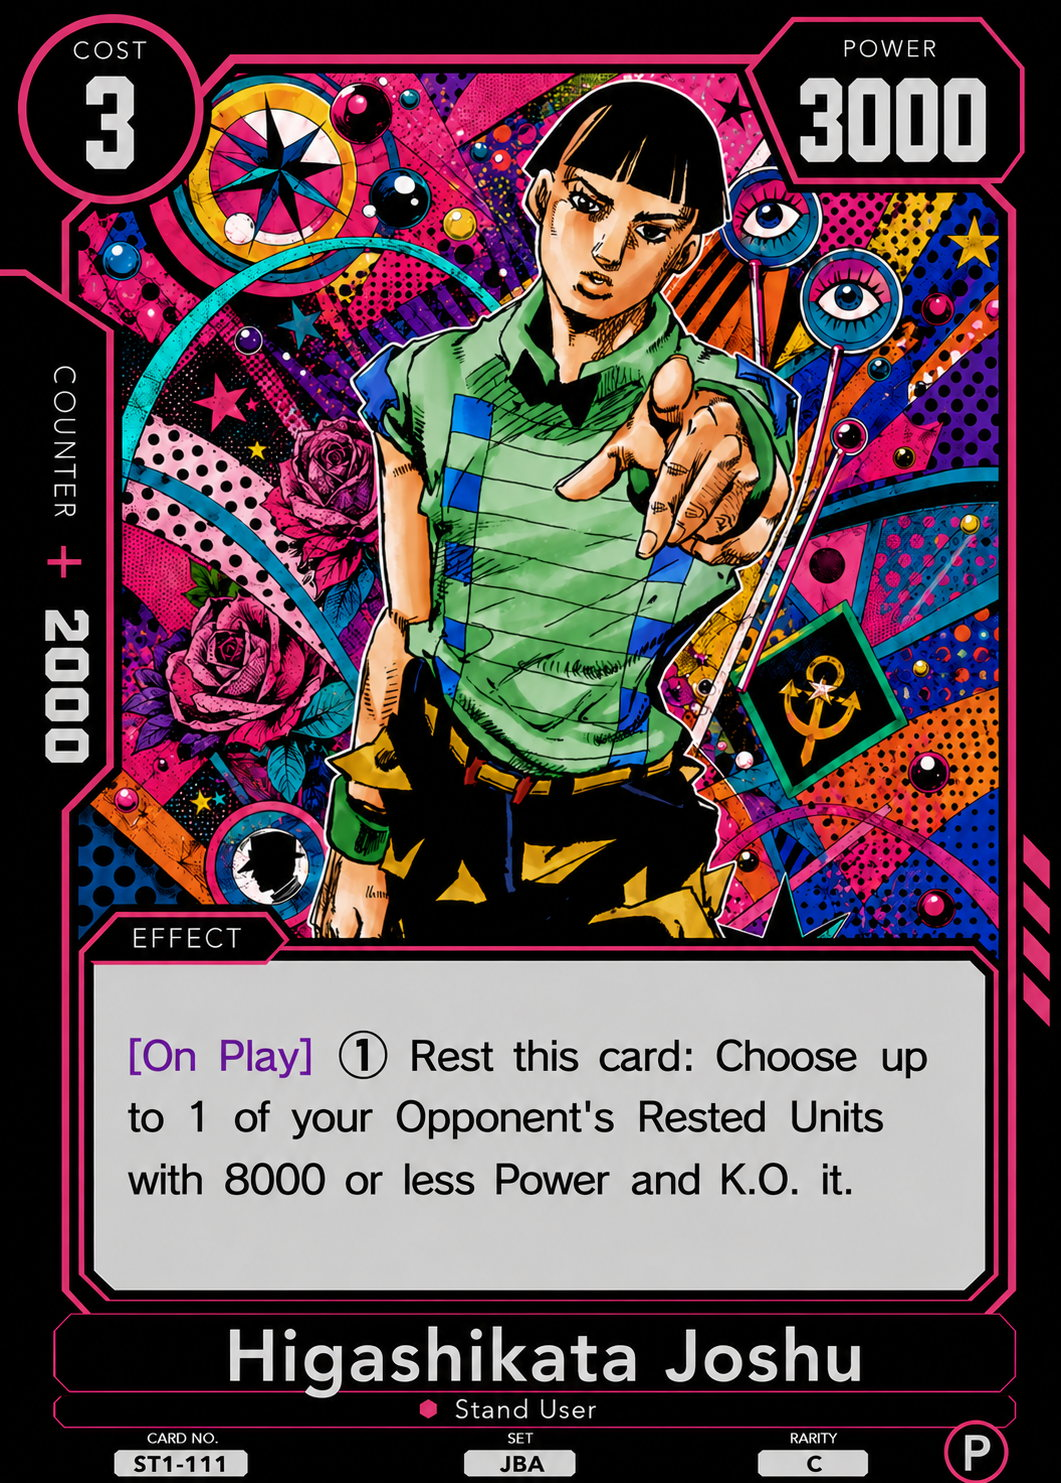
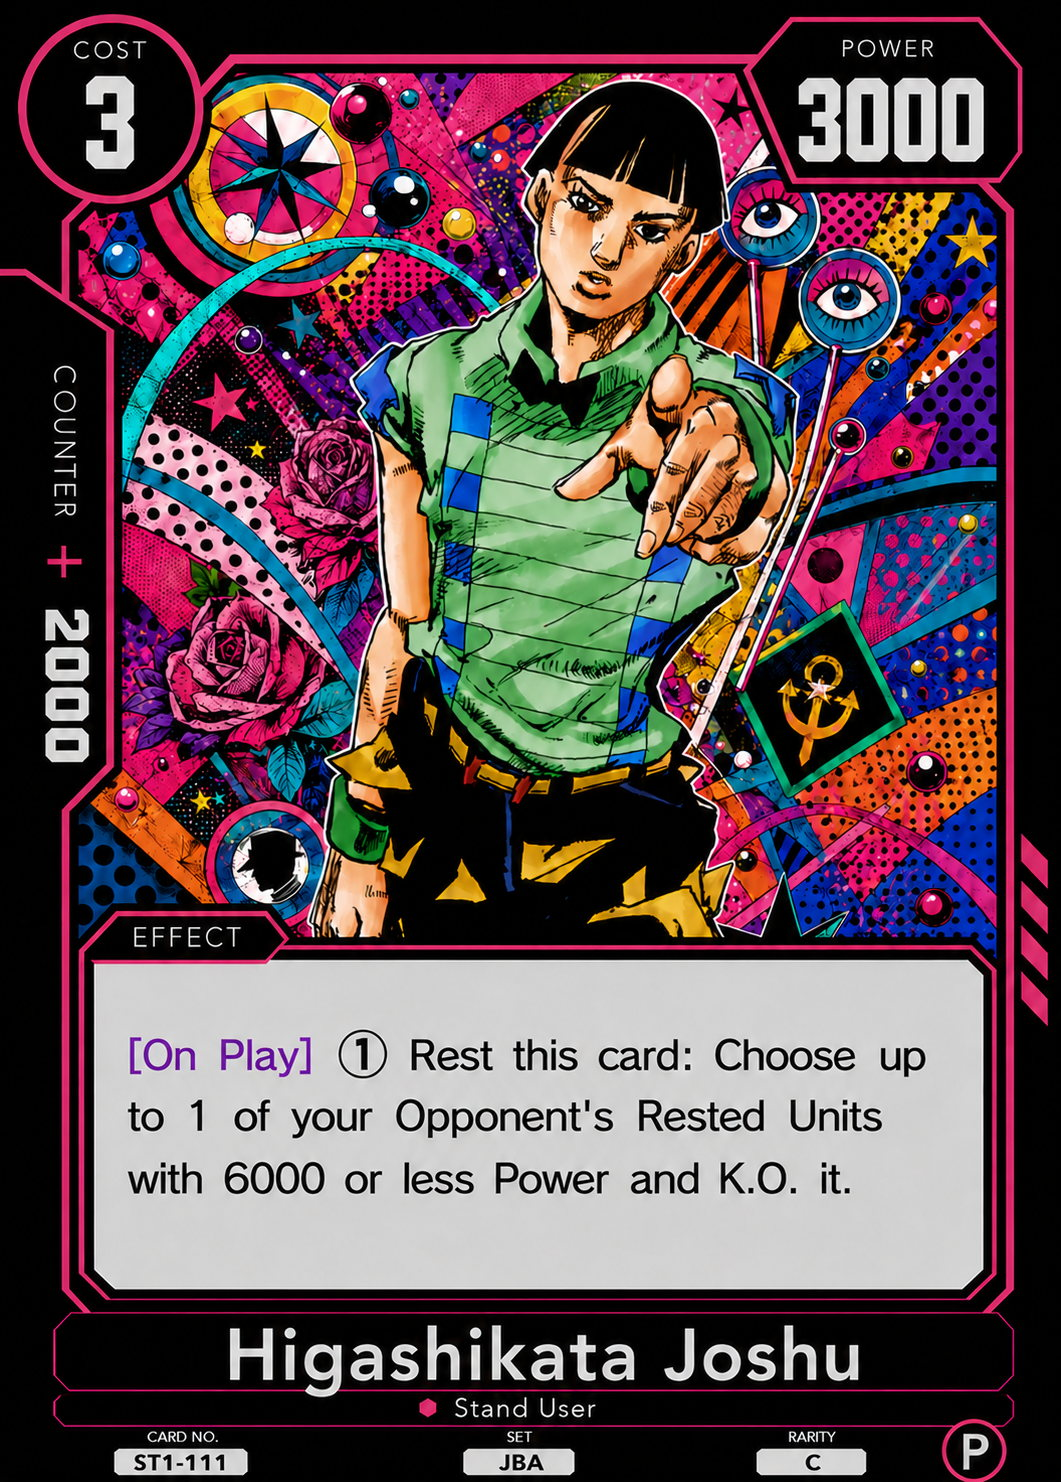
Update ST1-111 Joshu to its printed 6000 Power ceiling

diff --git a/card-text-data.js b/card-text-data.js
@@ -2542,8 +2542,8 @@ window.SJTCG_CARD_TEXT = {
     "set": "JBA",
     "rarity": "C",
     "bottom_right_circle": "P",
-    "effect": "[On Play] (1) Rest this card: Choose up to 1 of your Opponent's Rested Units with 8000 or less Power and K.O. it.",
-    "effect_html": "<span class=\"kw kw-purple\" title=\"Timing window\">[On Play]</span> (1) Rest this card: Choose up to 1 of your Opponent&#x27;s Rested Units with 8000 or less Power and K.O. it.",
+    "effect": "[On Play] (1) Rest this card: Choose up to 1 of your Opponent's Rested Units with 6000 or less Power and K.O. it.",
+    "effect_html": "<span class=\"kw kw-purple\" title=\"Timing window\">[On Play]</span> (1) Rest this card: Choose up to 1 of your Opponent&#x27;s Rested Units with 6000 or less Power and K.O. it.",
     "notes": "",
     "transcription_status": "verified",
     "release": "ST1",

diff --git a/index.html b/index.html
@@ -5,7 +5,7 @@
   <meta name="viewport" content="width=device-width, initial-scale=1" />
   <title>SJTCG Card Database</title>
   <link rel="stylesheet" href="styles.css?v=605686781612" />
-  <meta name="card-data-mirror" content="cards-data.js?v=b833575ab1c7">
+  <meta name="card-data-mirror" content="cards-data.js?v=d9580ef475d3">
 </head>
 <body>
   <header class="site-header">
@@ -215,7 +215,7 @@
     </section>
   </div>
 
-  <script src="card-text-data.js?v=366c39431164"></script>
+  <script src="card-text-data.js?v=8101ad3c21f9"></script>
   <script src="app.js?v=2db4d19fdd5d"></script>
 </body>
 </html>

diff --git a/cards-data.js b/cards-data.js
@@ -9624,7 +9624,7 @@ window.SJTCG_CARD_DATA = [
     "cardType": "Main Deck",
     "deckLimit": 4,
     "orientation": "Portrait",
-    "imageVersion": "b760dc0acf49"
+    "imageVersion": "ccb1eb85f22d"
   },
   {
     "number": "ST1-112",
